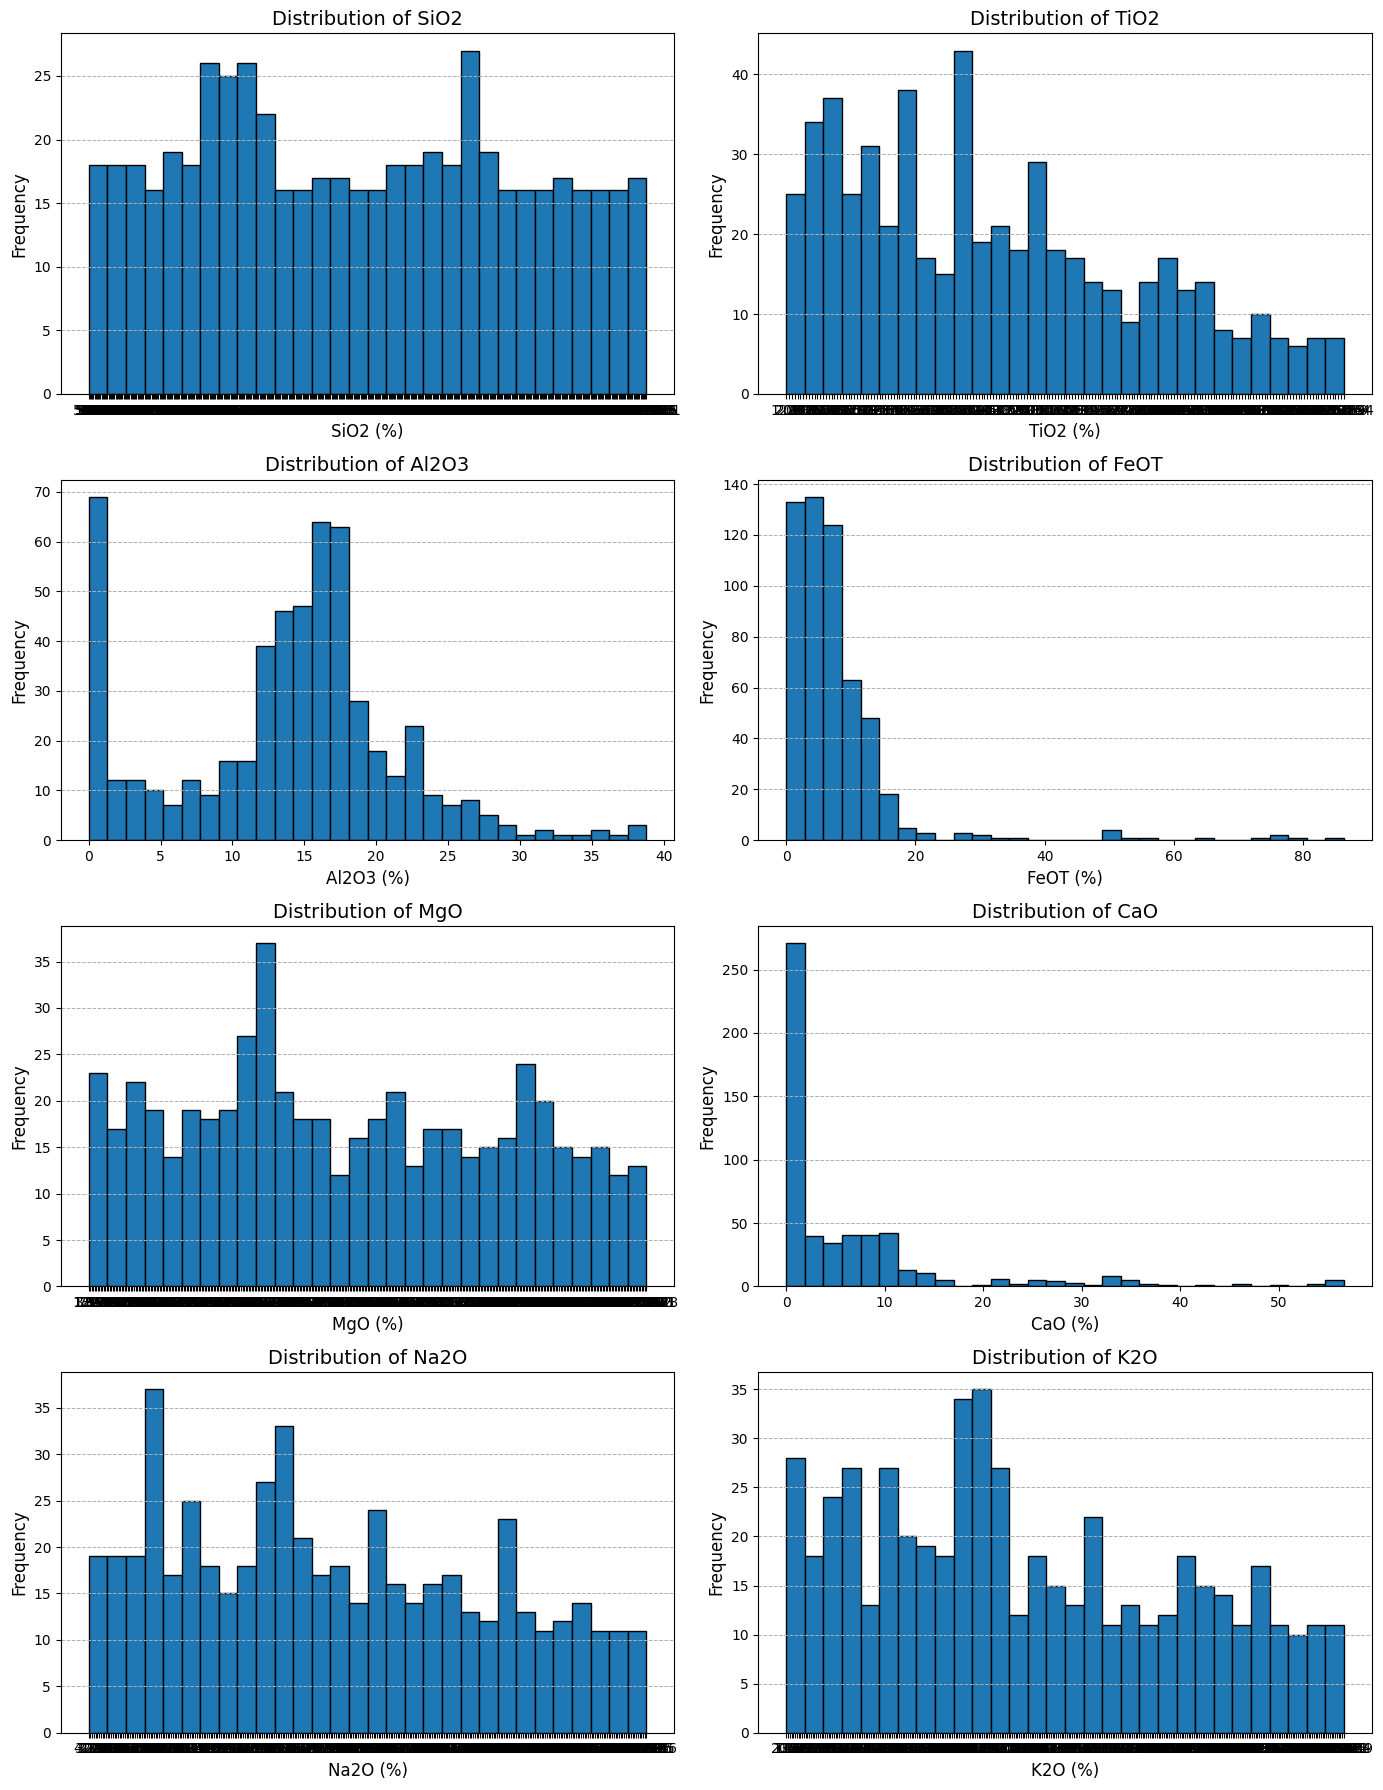
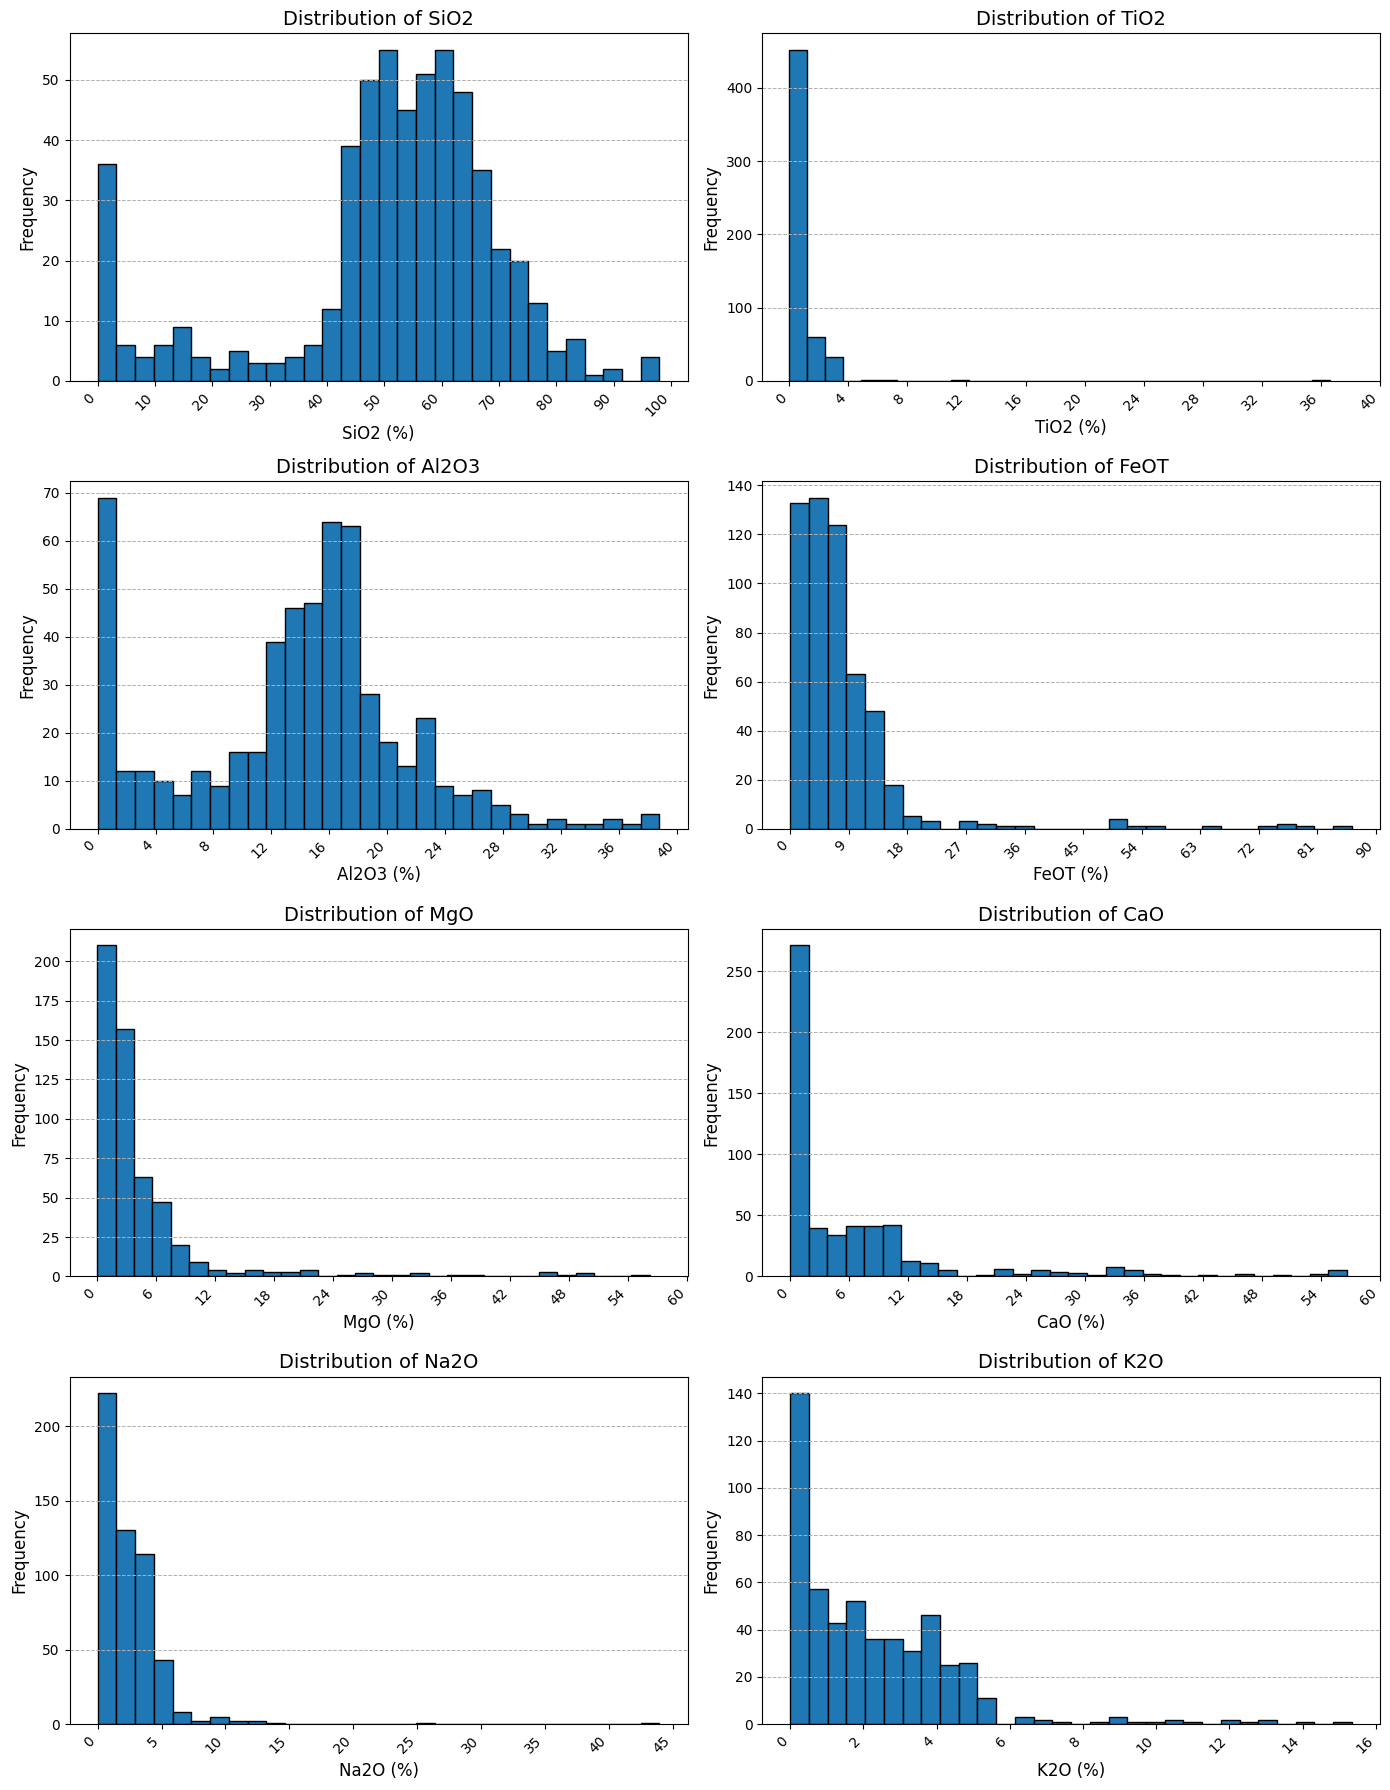
fix oxide distribution figure and rewrite explanation to match

diff --git a/report_thesis/src/sections/methodology/testing_validation.tex b/report_thesis/src/sections/methodology/testing_validation.tex
@@ -39,8 +39,12 @@ This uneven distribution can lead to models that perform well on the majority of
 \end{figure*}
 
 Figure~\ref{fig:oxide_distributions} illustrates the distributions of various oxide concentrations in our dataset.
-Notably, the bimodal distribution of \ce{SiO2} concentrations and the skewed distributions of \ce{FeO_T} and \ce{CaO} highlight the presence of extreme values.
-These distributions confirm that certain oxide concentrations are significantly overrepresented or underrepresented, further complicating the model training process.
+Across all oxides, there is a general pattern of skewed distributions, with concentrations heavily weighted towards lower values.
+This is particularly notable in \ce{TiO2}, \ce{FeO_T}, \ce{MgO}, \ce{CaO}, and \ce{Na2O}.
+\ce{SiO2} and \ce{Al2O3} show more variability, with \ce{SiO2} exhibiting a bimodal distribution.
+These distributions confirm the presence of extreme values across all oxides, which are significantly overrepresented or underrepresented, further complicating the model training process.
+
+This necessitates careful dataset partitioning to ensure that the model training process accounts for these challenges, improving the generalizability and robustness of the models.
 
 
 \subsubsection{Dataset Partitioning}\label{subsubsec:dataset_partitioning}
